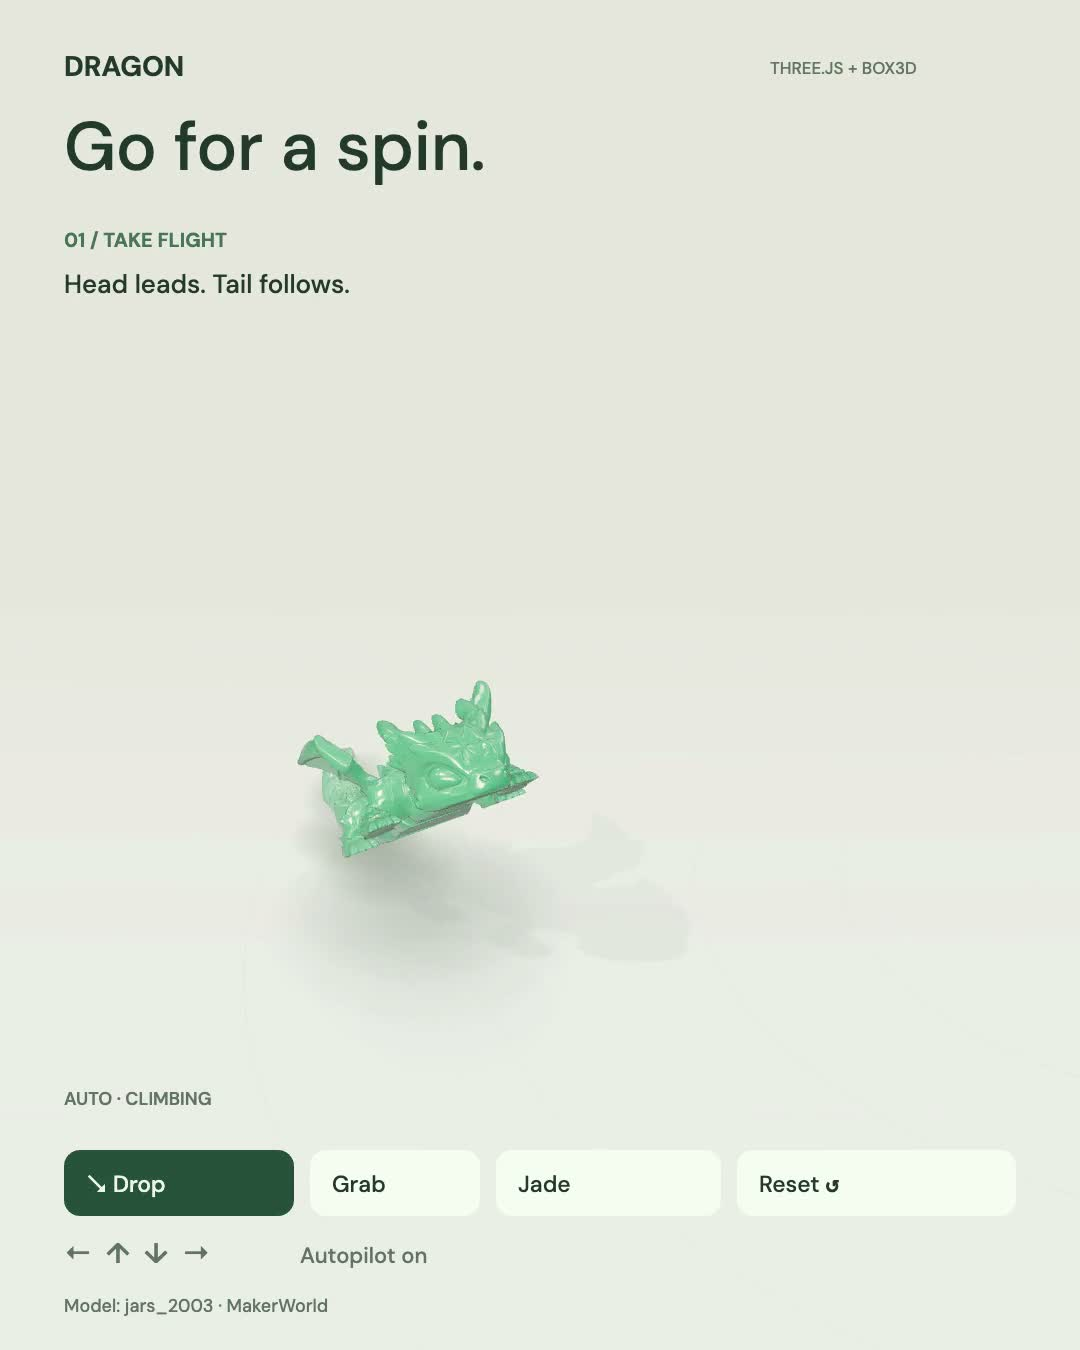
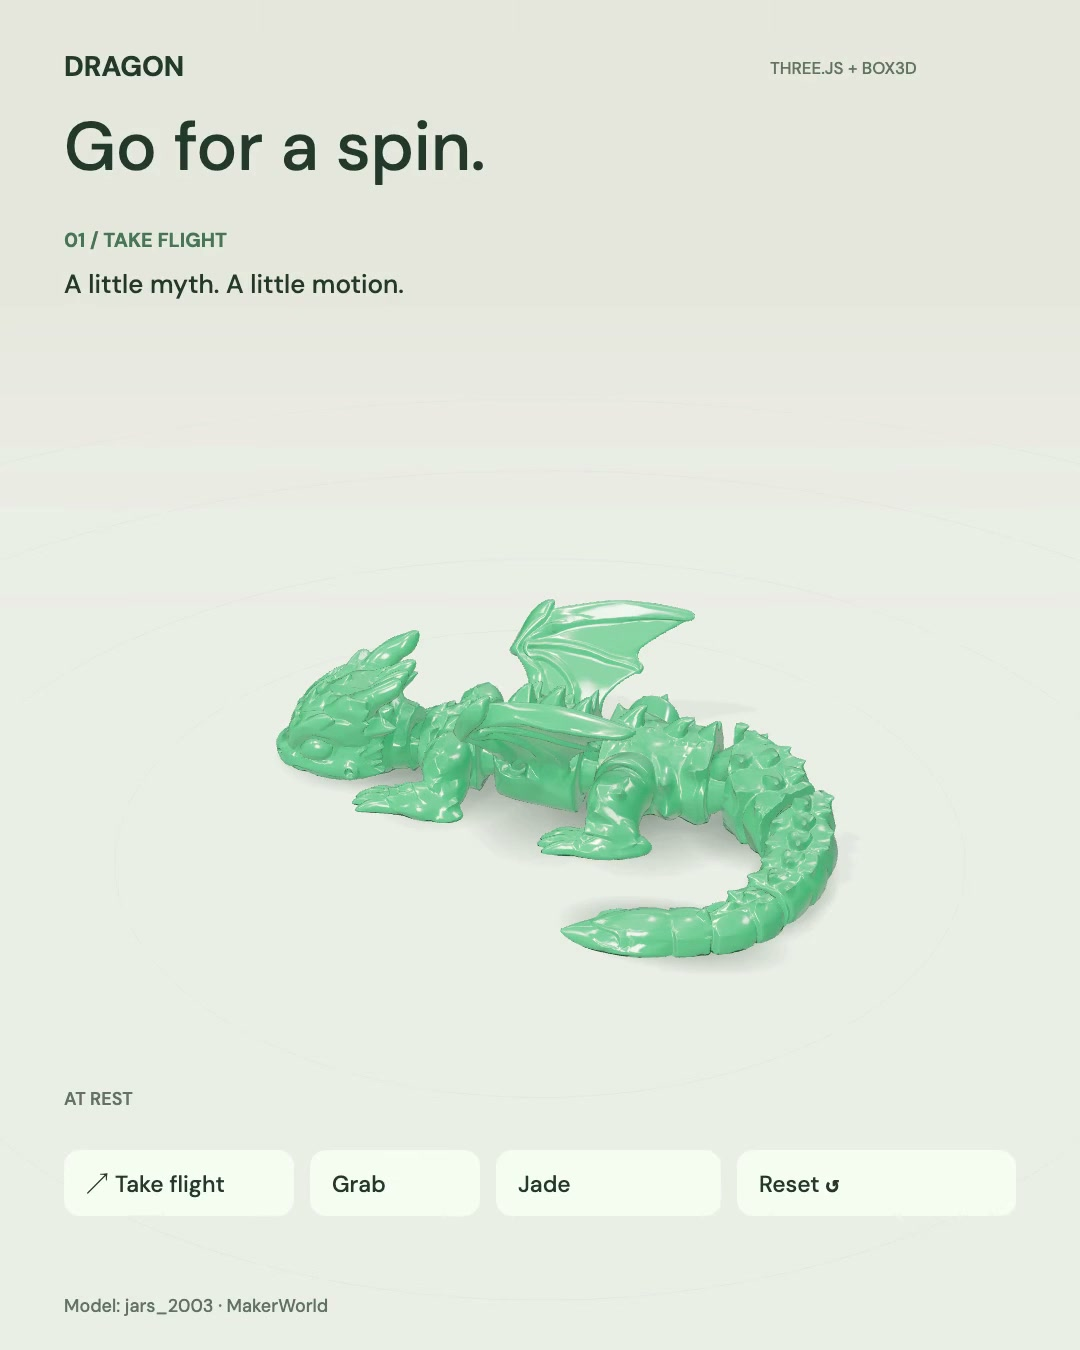
Use a clear full-dragon frame for the demo cover

diff --git a/demo/index.html b/demo/index.html
@@ -21,7 +21,7 @@
 <a class="brand" href="index.html">DRAGON<span>FLIGHT PLAYGROUND</span></a>
 <h1>Go for a spin.</h1>
 <p>A 71-second tour of the dragon playground. Flight, steering, gravity, grabbing, materials, and reset.</p>
-<video controls playsinline preload="metadata" poster="outputs/dragon-poster.jpg" aria-label="Dragon playground feature tour">
+<video controls playsinline preload="metadata" poster="outputs/dragon-poster.jpg?v=opening" aria-label="Dragon playground feature tour">
   <source src="outputs/dragon-feature-tour.mp4?v=trimmed" type="video/mp4">
   <a href="outputs/dragon-feature-tour.mp4">Download the video</a>
 </video>

diff --git a/README.md b/README.md
@@ -2,7 +2,7 @@
 
 A Three.js playground that brings an articulated print model to life with Box3D physics. Steer the dragon through climbing turns and low swoops, watch the tail trail behind, or grab a section and give it a shake.
 
-[![Watch the 71-second portrait demo](outputs/dragon-poster.jpg)](https://clyons.github.io/dragon-flight-til/)
+[![Watch the 71-second portrait demo](outputs/dragon-poster.jpg?v=opening)](https://clyons.github.io/dragon-flight-til/)
 
 **[Watch the demo](https://clyons.github.io/dragon-flight-til/)** · [Widescreen version](https://clyons.github.io/dragon-flight-til/widescreen.html) · [Download the portrait MP4](outputs/dragon-feature-tour.mp4) · [Video chapters and recording method](docs/demo.md)
 
